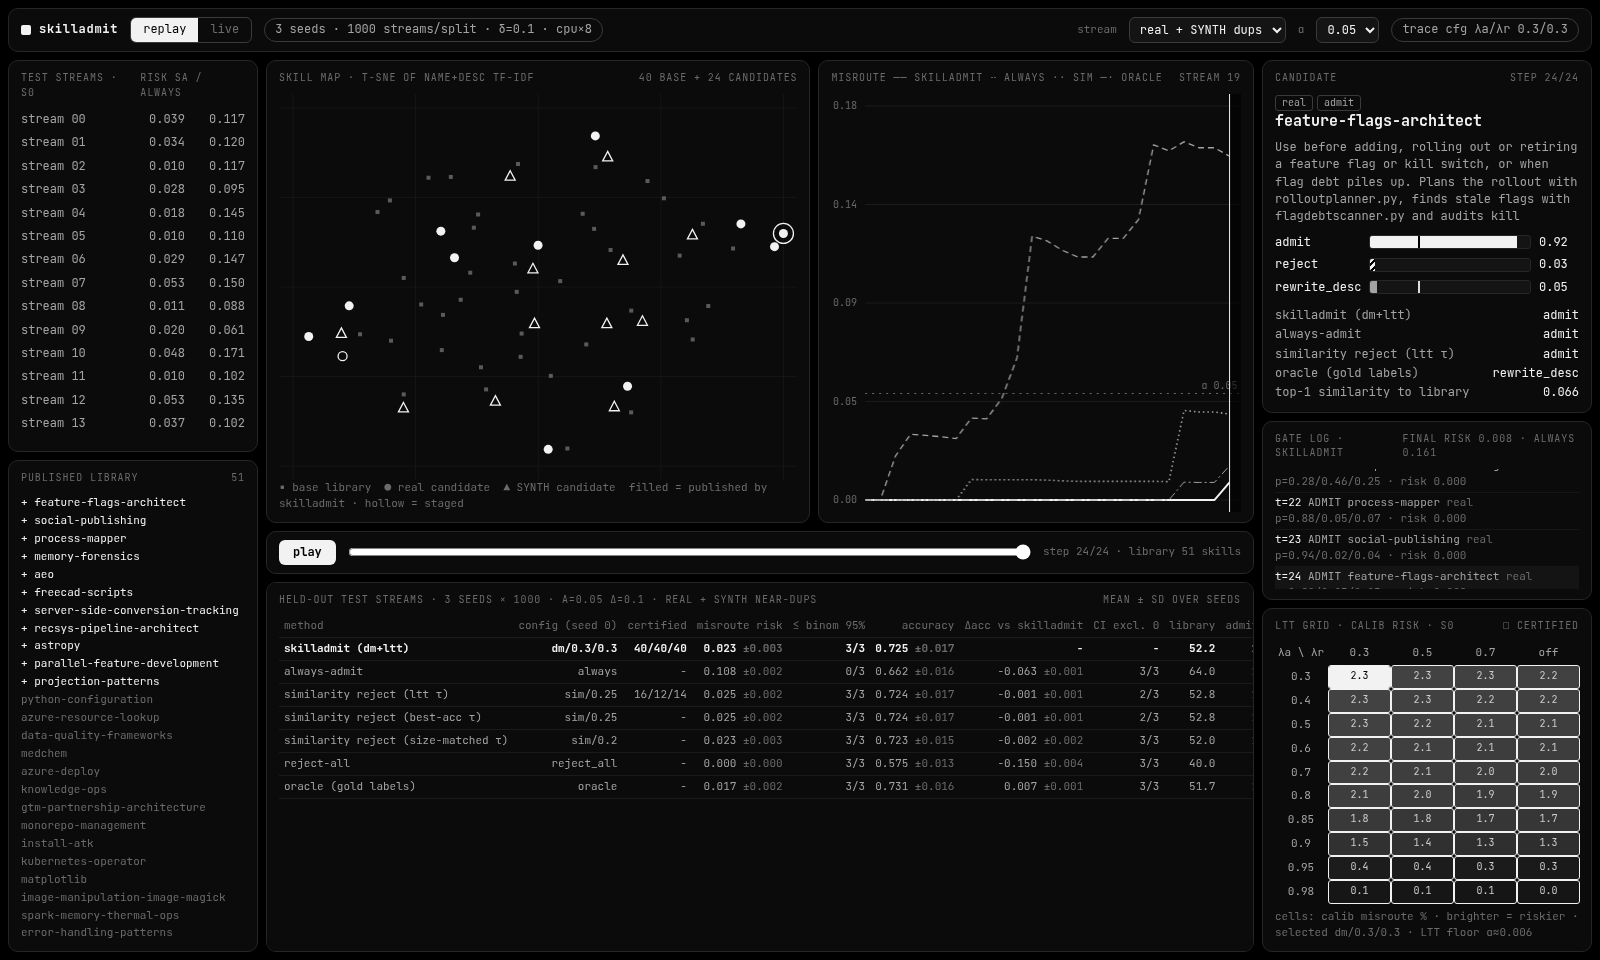
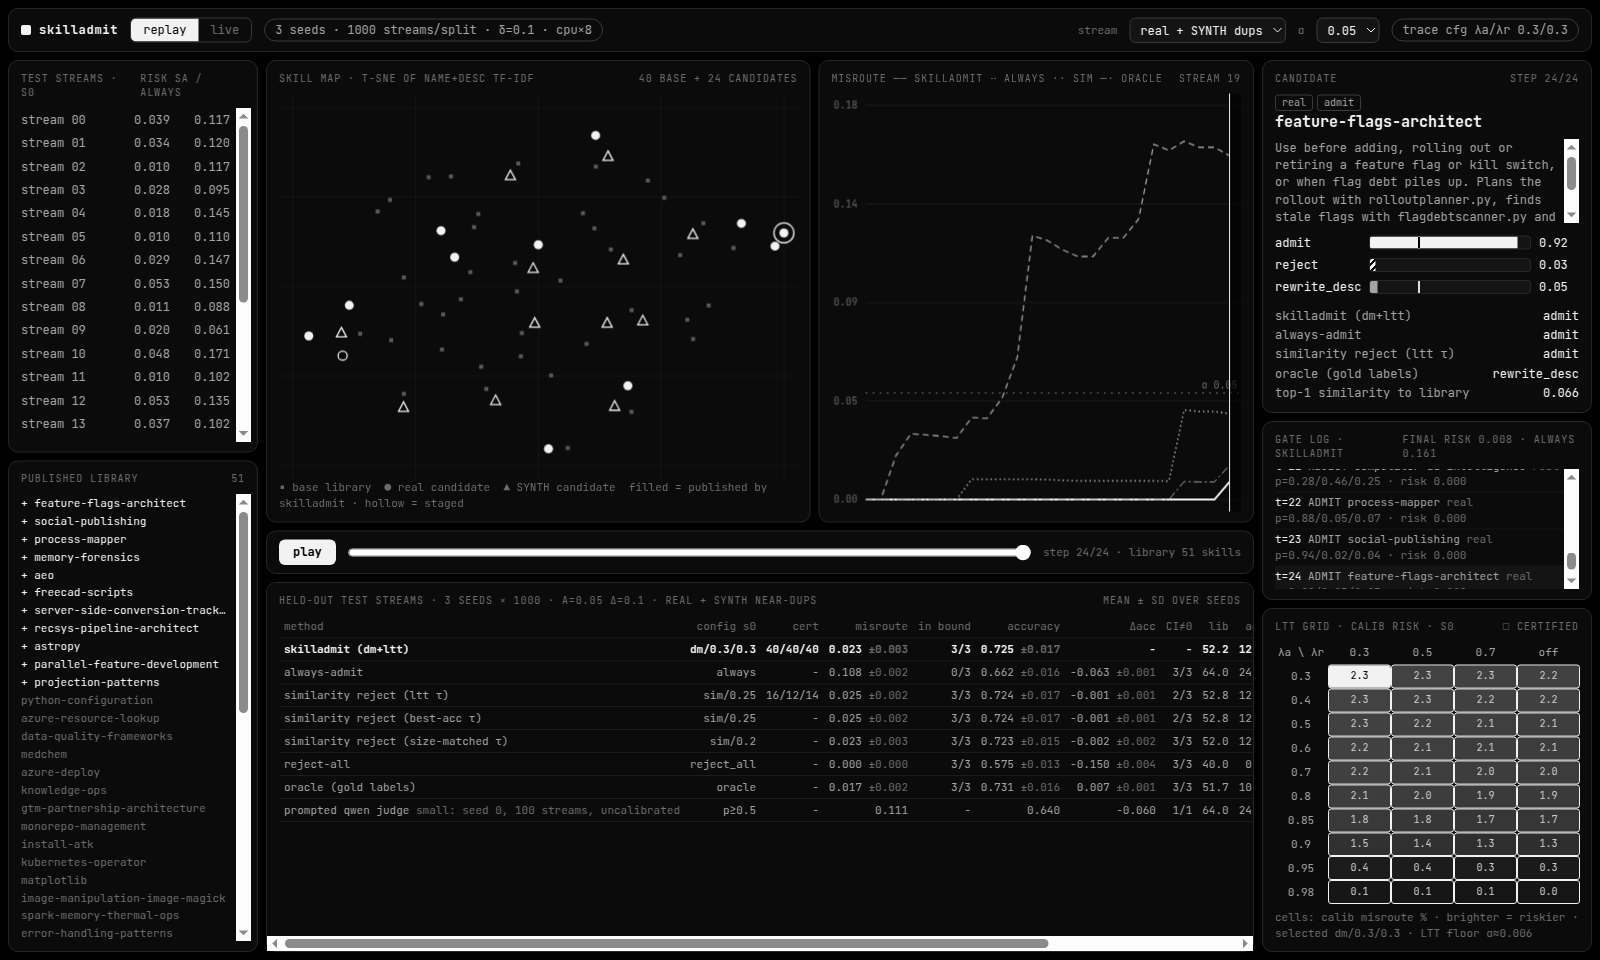
judge arm results, fix dashboard header quoting, CI JS parse check

diff --git a/app/index.html b/app/index.html
@@ -131,7 +131,7 @@ function agg(rows,f){const v=rows.map(f).filter(x=>x!=null);return v.length?[v.r
 function table(){const D=mixData(),rows=D.seeds.map(s=>s.per_alpha[alpha()]),ms=Object.keys(rows[0].methods),pm=(r,d=3)=>`${fmt(r[0],d)}<span class="note"> ±${fmt(r[1],d)}</span>`;
   $("resTitle").textContent=`held-out test streams · ${D.seeds.length} seeds × ${S.n_episodes} · α=${alpha()} δ=${S.delta} · ${$("mix").value=="mixed"?"real + SYNTH near-dups":"real candidates only"}`;
   $("resNote").textContent="mean ± sd over seeds";
-  let h="<tr><th>method</th><th>config s0</th><th>cert</th><th>misroute</th><th title="pooled test risk ≤ binomial 97.5% quantile of α">in bound</th><th>accuracy</th><th title="skilladmit − method, points">Δacc</th><th title="seeds whose 95% bootstrap CI excludes 0">CI≠0</th><th>lib</th><th>adm</th><th>rw</th><th>synth in</th><th>staged</th><th>iid risk</th></tr>";
+  let h="<tr><th>method</th><th>config s0</th><th>cert</th><th>misroute</th><th title='pooled test risk ≤ binomial 97.5% quantile of α'>in bound</th><th>accuracy</th><th title='skilladmit − method, points'>Δacc</th><th title='seeds whose 95% bootstrap CI excludes 0'>CI≠0</th><th>lib</th><th>adm</th><th>rw</th><th>synth in</th><th>staged</th><th>iid risk</th></tr>";
   for(const m of ms){const R=rows.map(r=>r.methods[m]),te=f=>agg(R,r=>f(r.test)),nv=rows[0].n_valid[m];
     const gap=agg(R,r=>r.acc_gap_skilladmit_minus==null?null:-r.acc_gap_skilladmit_minus),ex=R.filter(r=>r.acc_gap_ci95&&(r.acc_gap_ci95[0]>0||r.acc_gap_ci95[1]<0)).length;
     h+=`<tr class="${m=="skilladmit"?"me":""}"><td>${NAMES[m]||m}</td><td>${rows[0].configs[m]}</td><td>${nv==null?"-":rows.map(r=>r.n_valid[m]).join("/")}</td><td>${pm(te(x=>x.risk))}</td><td>${R.filter(r=>r.inside_binomial_95).length}/${R.length}</td><td>${pm(te(x=>x.acc))}</td><td>${m=="skilladmit"?"-":pm(gap)}</td><td>${m=="skilladmit"?"-":ex+"/"+R.length}</td><td>${fmt(te(x=>x.lib)[0],1)}</td><td>${fmt(te(x=>x.admit)[0],1)}</td><td>${fmt(te(x=>x.rewrite_desc)[0],2)}</td><td>${fmt(te(x=>x.synth_admitted)[0],2)}</td><td>${fmt(te(x=>x.real_rejected)[0],2)}</td><td>${fmt(agg(R,r=>r.test_iid.risk)[0])}</td></tr>`}

diff --git a/docs/REPORT.md b/docs/REPORT.md
@@ -176,7 +176,26 @@ is reported as the result.
 ![risk](screenshots/risk.png)
 
 
-<!-- JUDGE -->
+### 4.3 Prompted judge (small-scale: seed 0, 100 real + SYNTH test streams, uncalibrated)
+
+Qwen2.5-0.5B-Instruct (pinned revision `7ae5576`, fp32, CPU) sees the candidate and its 5 nearest library skills and
+answers admit or reject. p(admit) comes from the next-token logits of the two words, and the arm admits when
+p(admit) ≥ 0.5. It is not calibrated and not risk-controlled, and it ran on 100 streams instead of 1,000 because
+2,397 distinct prompts took 89 minutes. All five arms below use the same 100 streams.
+
+| method | misroute risk | accuracy | library | admitted / 24 |
+|---|---|---|---|---|
+| prompted judge | 0.1115 | 0.6400 | 63.98 | 23.98 |
+| always-admit | 0.1115 | 0.6402 | 64.00 | 24.00 |
+| skilladmit (α = 0.05) | 0.0276 | 0.7000 | 52.34 | 12.16 |
+| similarity (LTT τ) | 0.0294 | 0.7003 | 53.03 | 13.03 |
+| oracle | 0.0207 | 0.7075 | 51.78 | 10.49 |
+
+The judge is degenerate. It said admit to 2,398 of the 2,400 candidates, including all 12 SYNTH forks per stream, so
+it is always-admit with an 89-minute overhead. Skilladmit is 6.0 points more accurate than the judge (paired
+bootstrap 95% CI [5.6, 6.4]). A 0.5B model asked "does this overlap?" does not see near-duplicates that a TF-IDF
+cosine catches. Larger judges (Prism, the brief's suggested DM) do not fit on CPU and were not run.
+
 
 ### 4.4 Wall-clock
 
@@ -186,7 +205,7 @@ All on one 8-vCPU box, no GPU, `multiprocessing` over streams.
 |---|---|---|
 | real + SYNTH, 3 seeds × (400 train + 3 × 1,000 eval streams) | 31 min 27 s | 588–666 s per seed |
 | real only, 3 seeds, same sizes | 65 min 7 s | 1,193–1,383 s per seed; shared the CPU with the judge run |
-| judge arm, seed 0, 100 streams | JUDGE_WALL | Qwen2.5-0.5B fp32 on CPU, shared the CPU with the real-only run |
+| judge arm, seed 0, 100 streams | 89 min 4 s (2,397 prompts) | Qwen2.5-0.5B fp32 on CPU, shared the CPU with the real-only run |
 | one gate decision (DM features + scoring) | ~50–70 ms | dashboard live mode, 40-skill library |
 | DM training per seed | 2–4 s | 9,600 rows |
 

diff --git a/results/summary.md b/results/summary.md
@@ -49,3 +49,13 @@
 | 0.1 | sim-reject (size-matched τ) | `sim/0.25` | 0.0370 ± 0.0047 | 3/3 | 0.7042 ± 0.0141 | -0.24 [-0.27, -0.20]; +0.66 [+0.58, +0.73]; +0.61 [+0.56, +0.68] | 63.1 | 0.00 | 0.86 |
 | 0.1 | reject-all | `reject_all` | 0.0000 ± 0.0000 | 3/3 | 0.4669 ± 0.0099 | +22.99 [+22.81, +23.18]; +24.35 [+24.17, +24.54]; +24.88 [+24.67, +25.09] | 40.0 | 0.00 | 24.00 |
 | 0.1 | oracle | `oracle` | 0.0294 ± 0.0039 | 3/3 | 0.7174 ± 0.0170 | -1.06 [-1.12, -1.00]; -1.01 [-1.07, -0.95]; -0.85 [-0.90, -0.79] | 63.3 | 0.00 | 0.74 |
+
+### prompted judge (small-scale: seed 0, 100 test streams, uncalibrated p(admit) ≥ 0.5, Qwen/Qwen2.5-0.5B-Instruct)
+
+| method | misroute risk | accuracy | Δacc skilladmit − method [95% CI] | library | SYNTH published | real staged |
+|---|---|---|---|---|---|---|
+| judge | 0.1115 | 0.6400 | +6.00 [+5.62, +6.38] | 64.0 | 12.00 | 0.02 |
+| skilladmit | 0.0276 | 0.7000 |  | 52.3 | 0.39 | 0.05 |
+| always | 0.1115 | 0.6402 | +5.98 [+5.60, +6.37] | 64.0 | 12.00 | 0.00 |
+| sim_ltt | 0.0294 | 0.7003 | -0.03 [-0.15, +0.09] | 53.0 | 1.05 | 0.02 |
+| oracle | 0.0207 | 0.7075 | -0.75 [-0.94, -0.58] | 51.8 | 0.00 | 0.22 |

diff --git a/README.md b/README.md
@@ -74,6 +74,9 @@ The real-only stream (24 real candidates, no SYNTH) is worse news. Admitting eve
 over half the real skills and loses 6 to 22 accuracy points. The guarantee holds. It is just not worth its price
 when the library is not being flooded with forks.
 
+A prompted Qwen2.5-0.5B judge on CPU (small-scale: seed 0, 100 streams, uncalibrated) admitted 2,398 of 2,400
+candidates. That makes it always-admit with an 89-minute overhead, and 6.0 points less accurate than skilladmit.
+
 ![Every config on held-out streams](docs/screenshots/frontier.png)
 
 | | |
